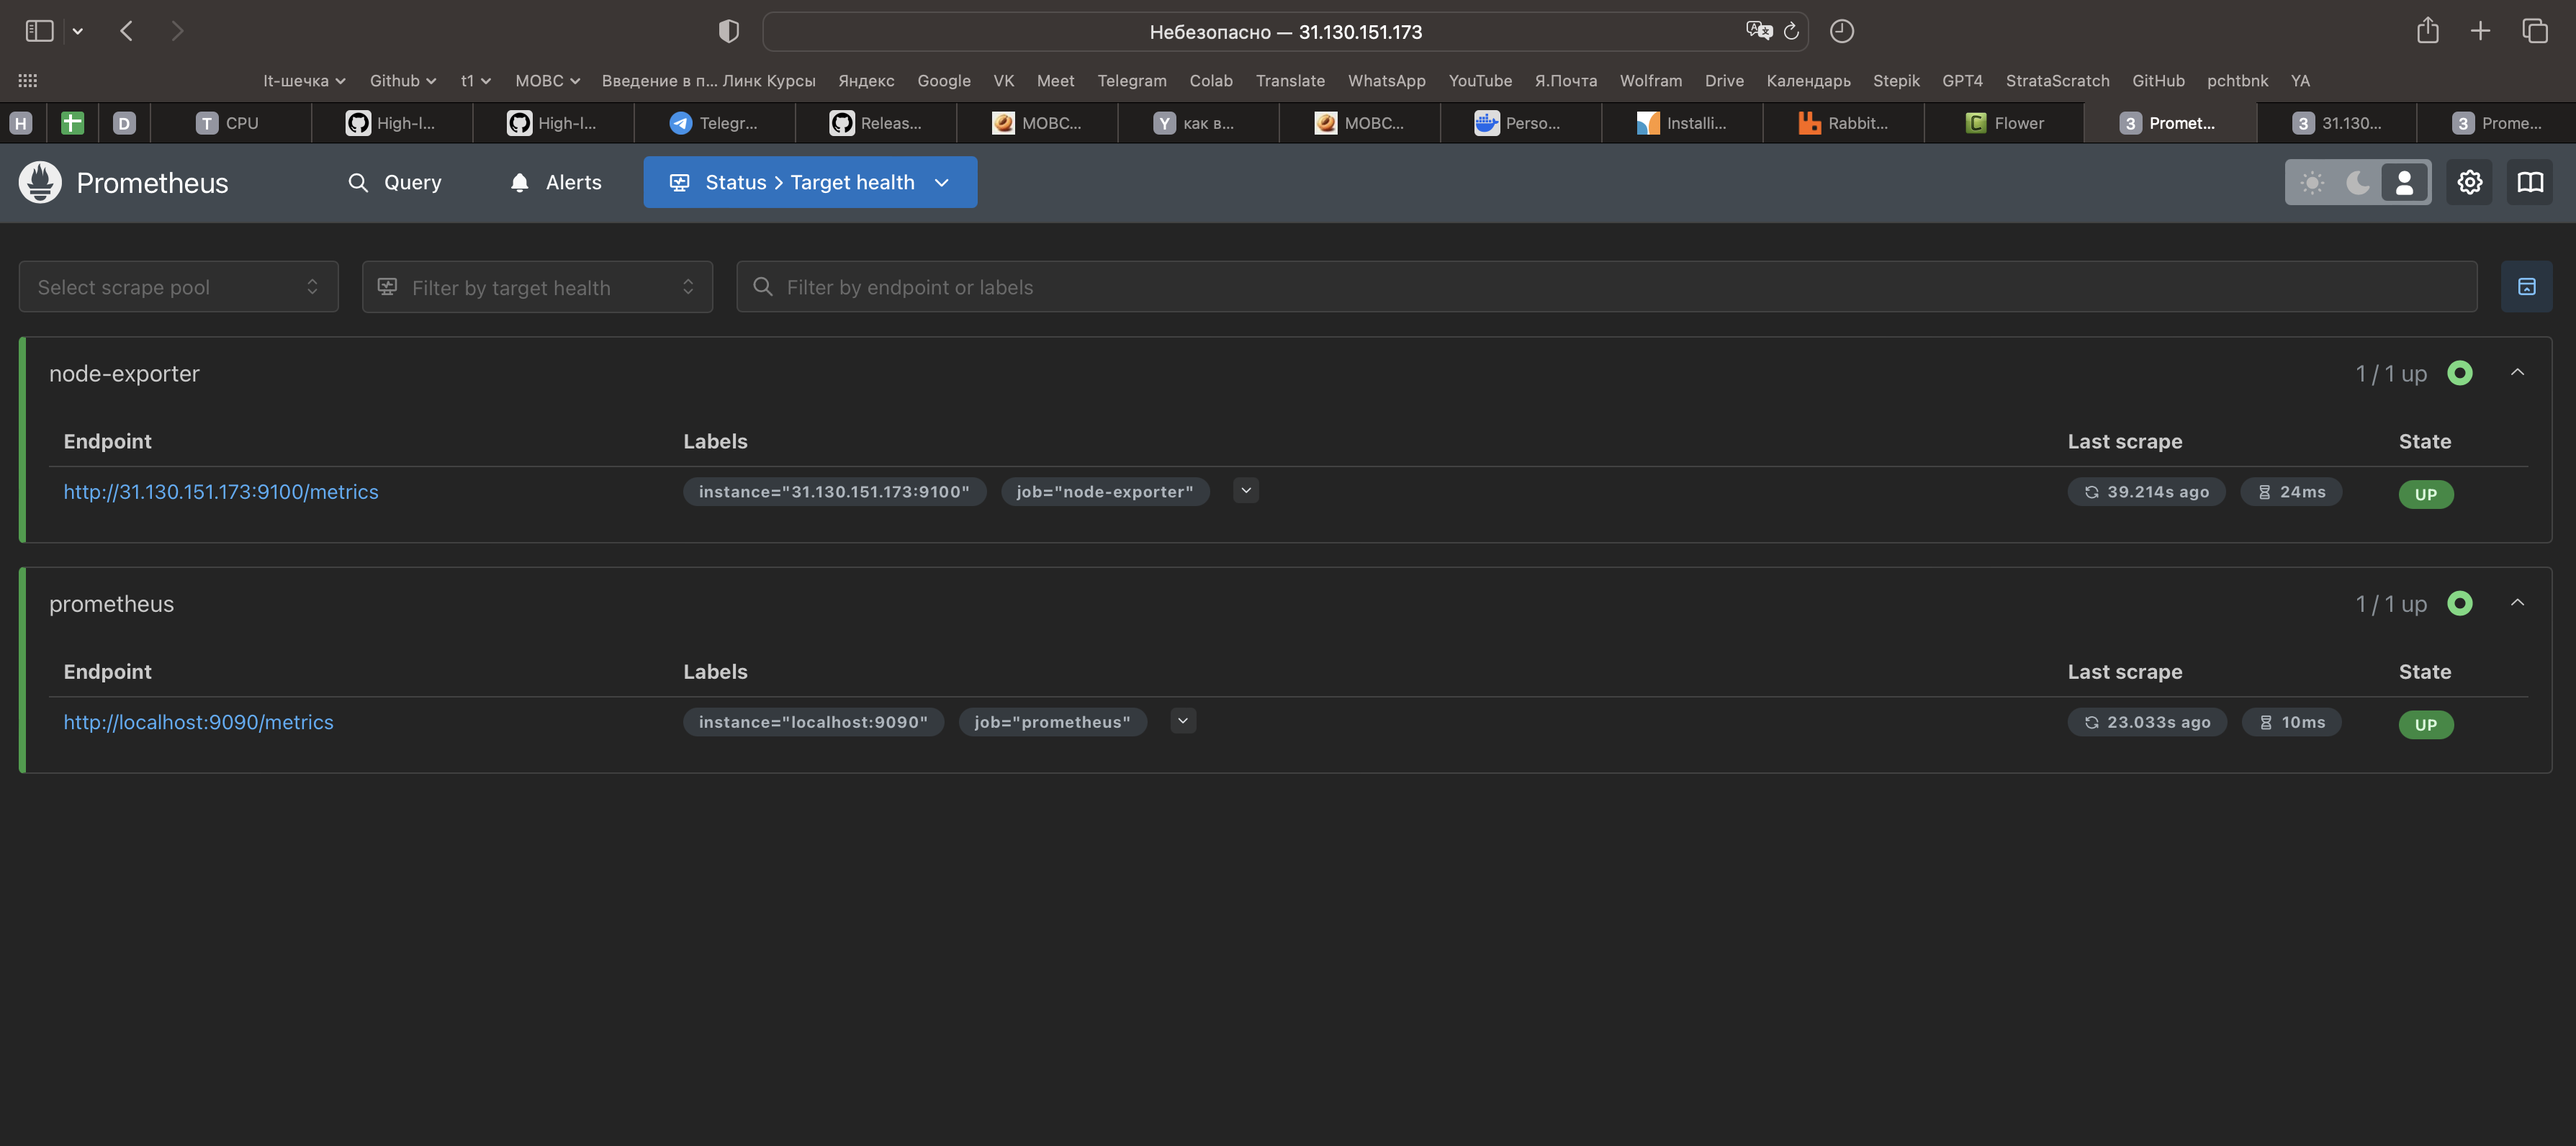
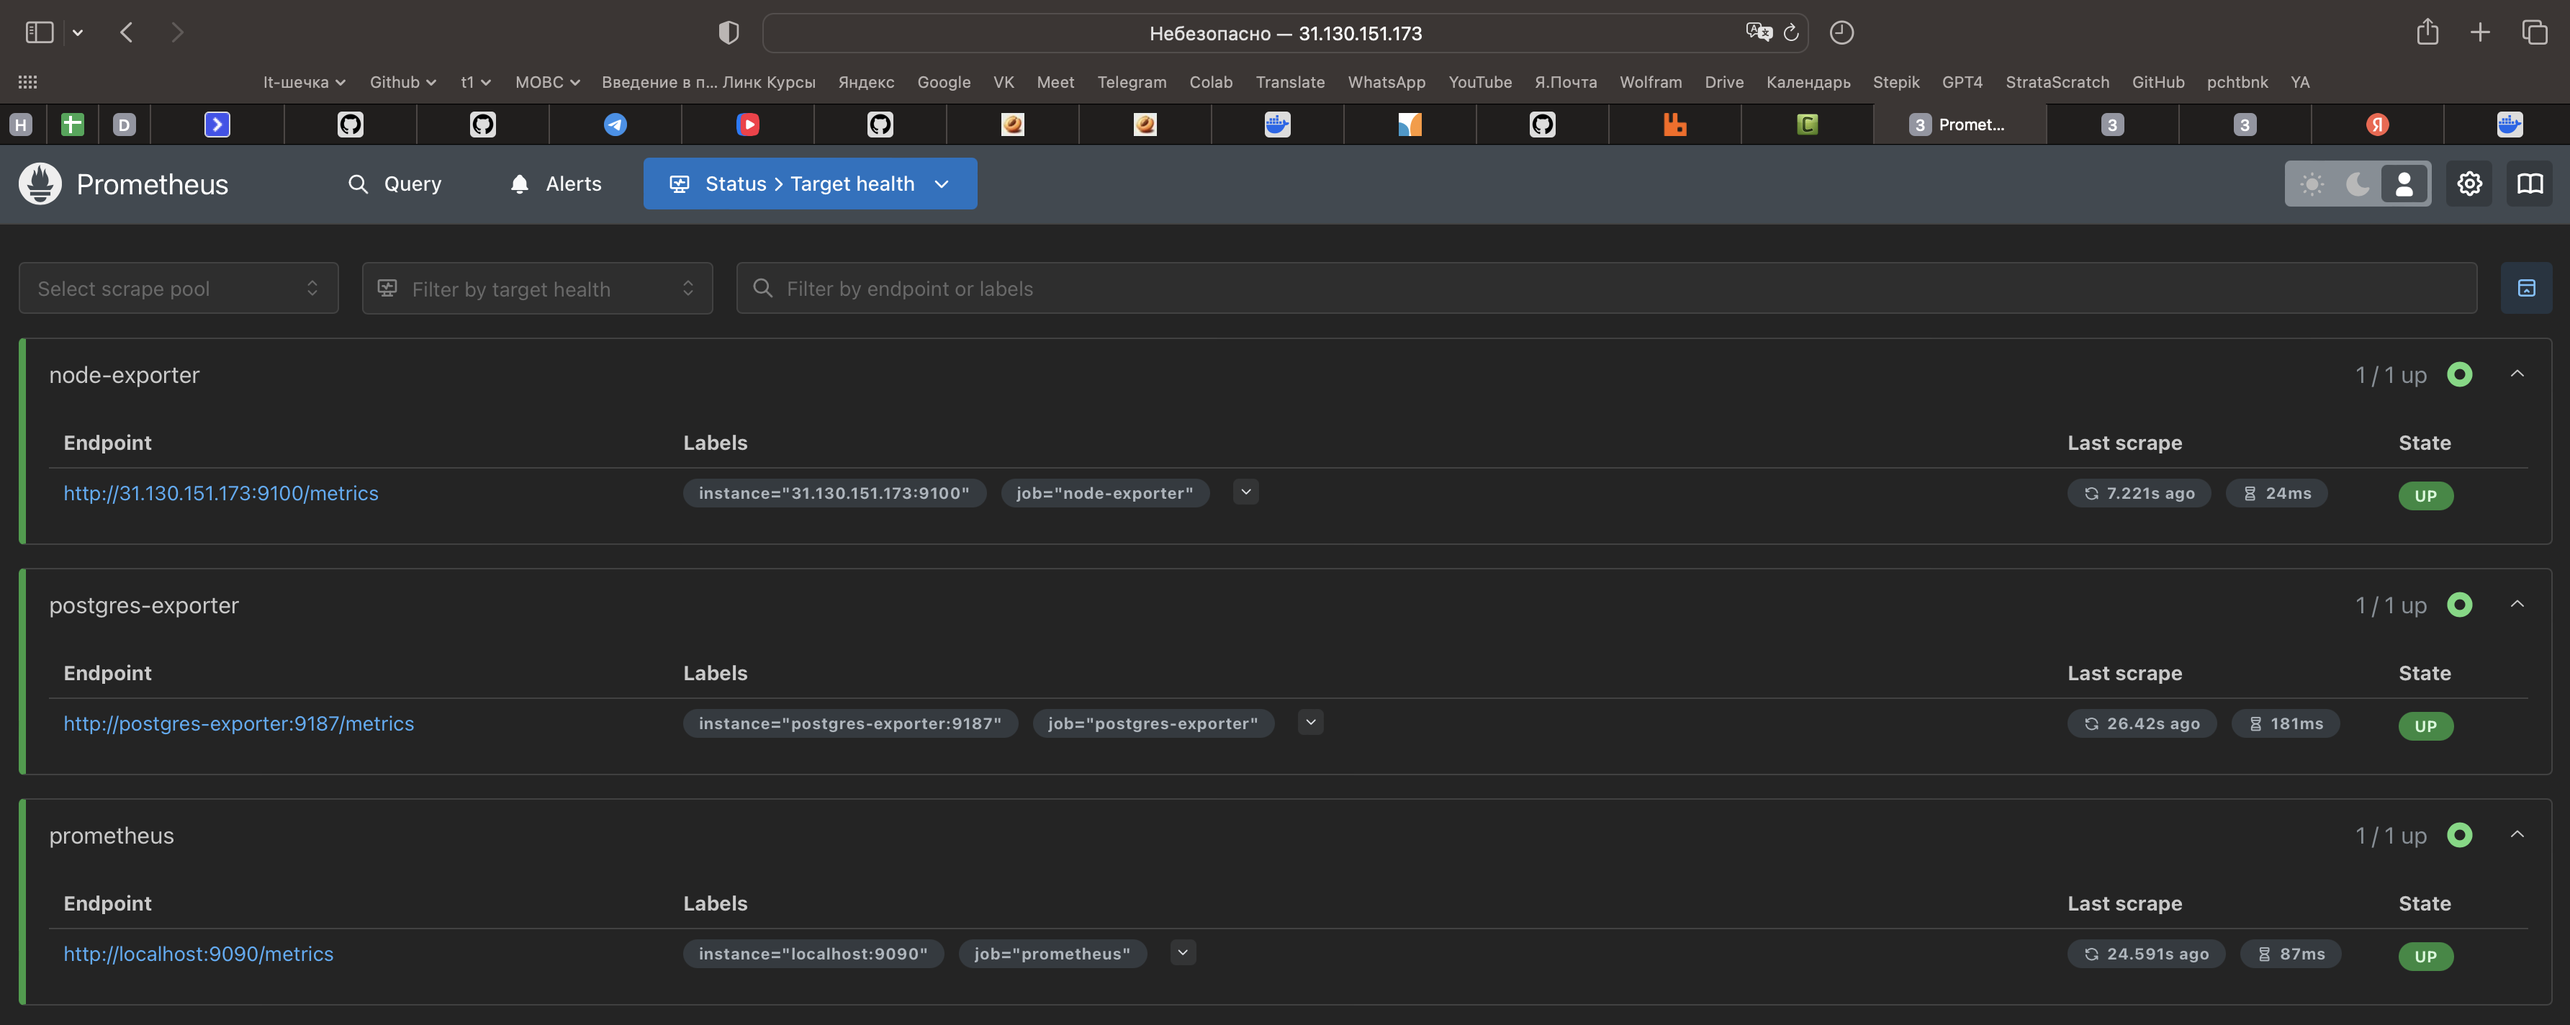
upd: readme - postgres-exporter

diff --git a/cpu_server/README.MD b/cpu_server/README.MD
@@ -248,13 +248,7 @@ WantedBy=multi-user.target</code>
 
 ![Alt text](prometheus-graph.png)
 
-
-<b>4.8 Пример метрик Postgres SQL</b>
-
-![Alt text](prometheus-postgres-exporter.png)
-
-
-<b>4.9 Запрос метрик через Prometheus</b>
+<b>4.8 Запрос метрик через Prometheus</b>
 
 <code>http://31.130.151.173:9090/graph</code> 
 
@@ -262,4 +256,7 @@ WantedBy=multi-user.target</code>
 
 <code>node_memory_MemFree_bytes</code> 
 
+<b>4.9 Пример метрик Postgres SQL</b>
+
+![Alt text](prometheus-postgres-exporter.png)
 
